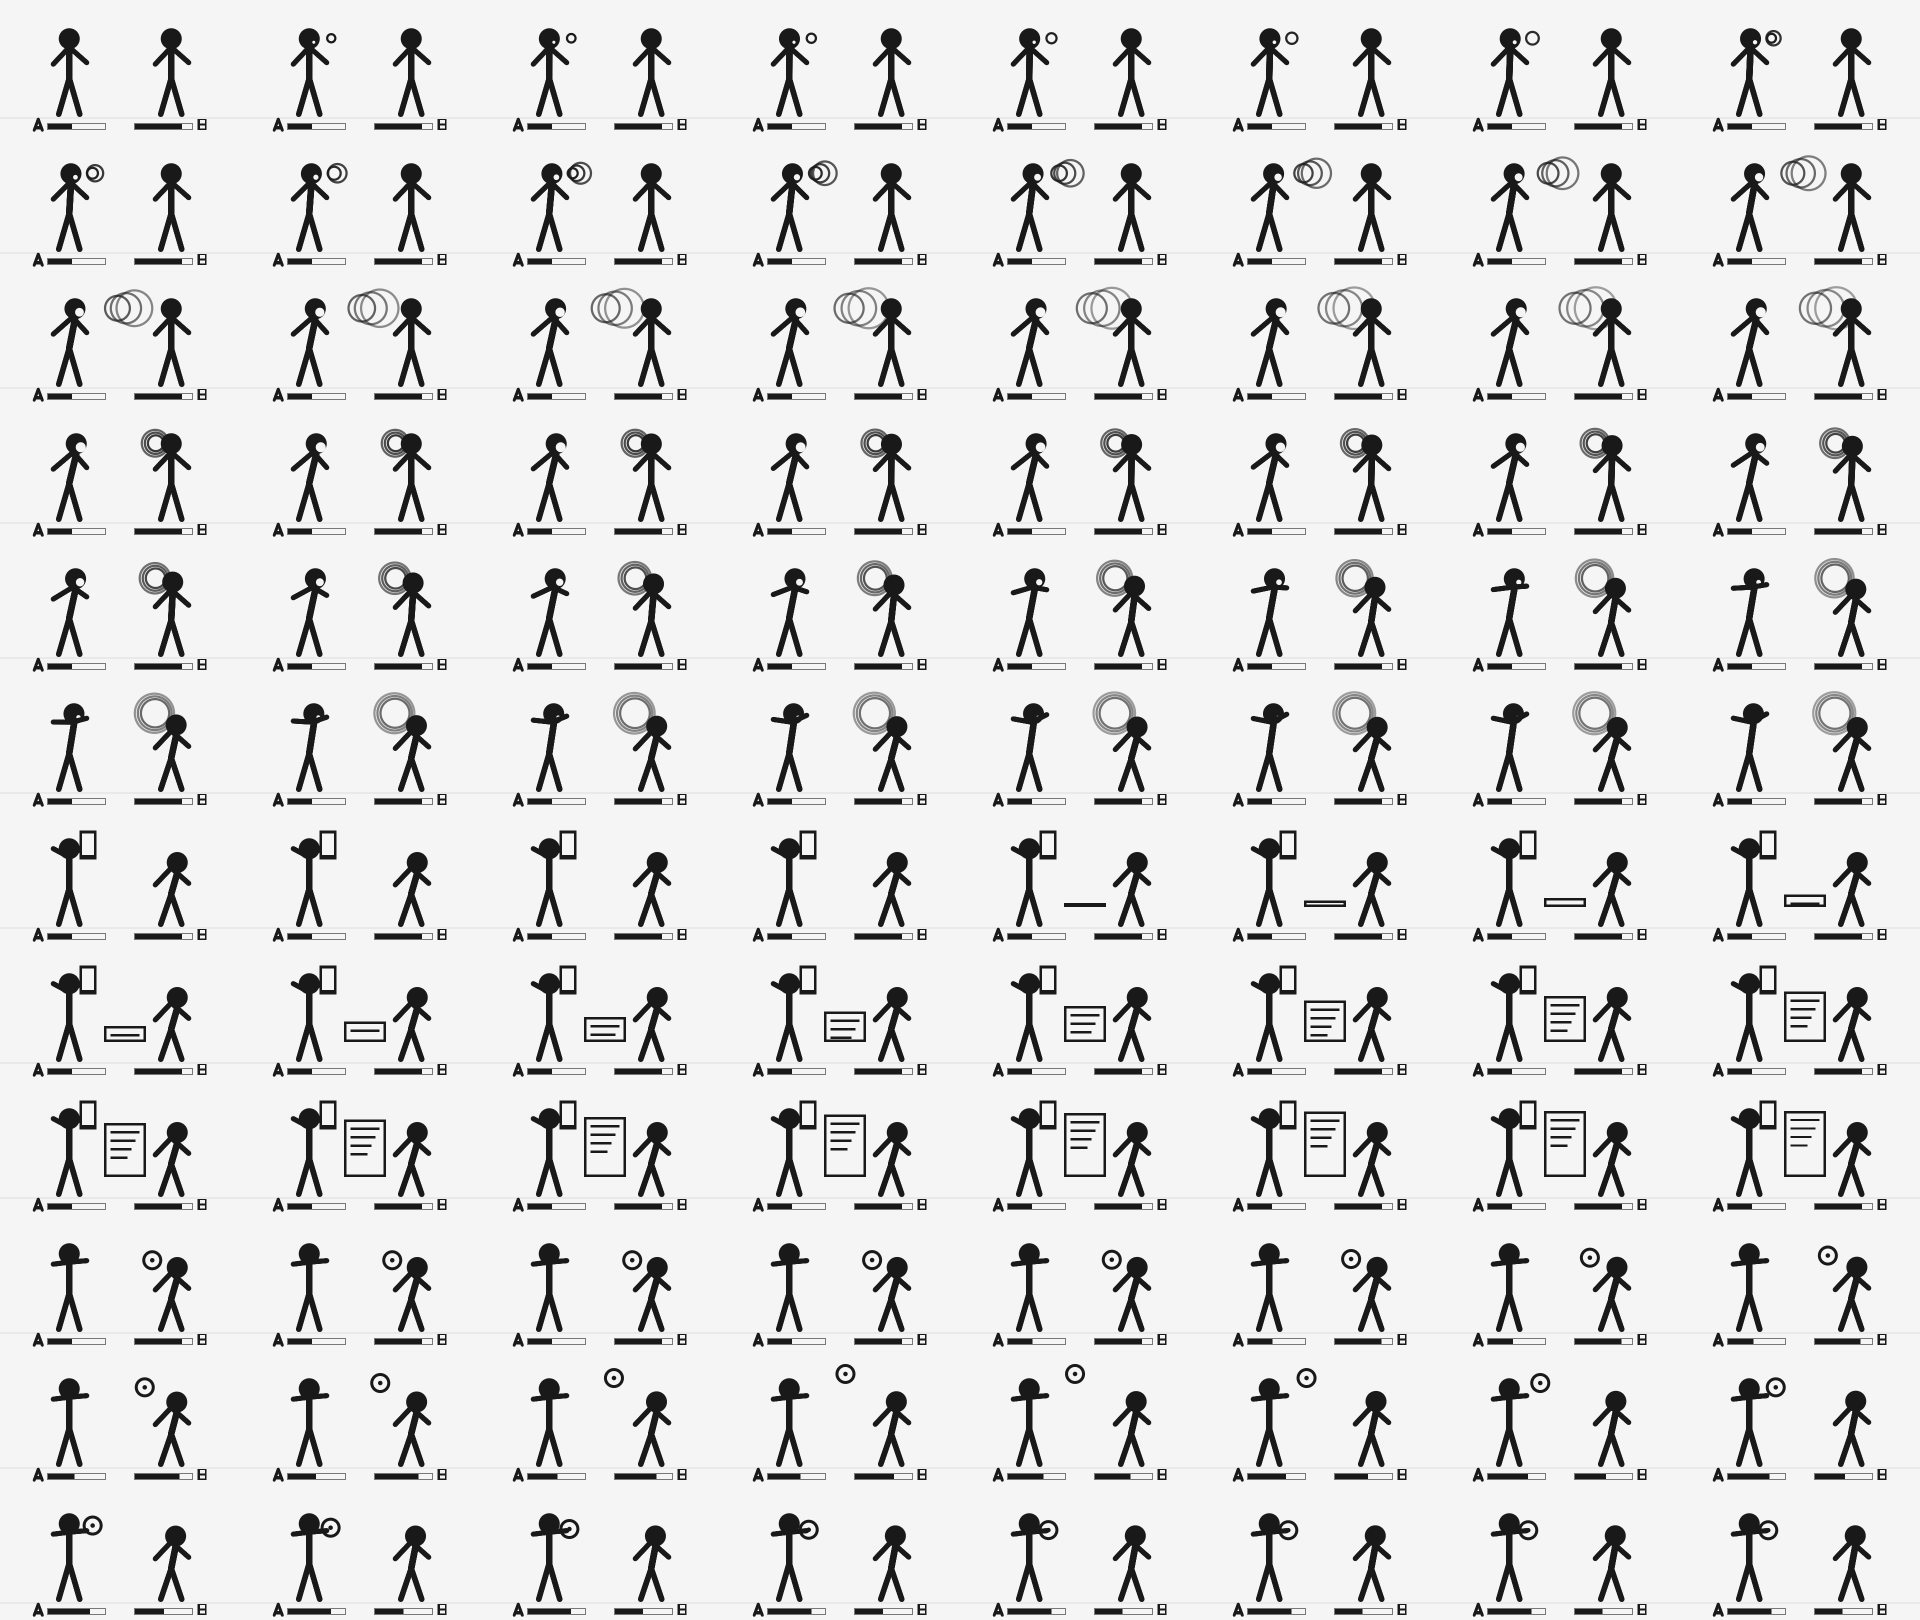
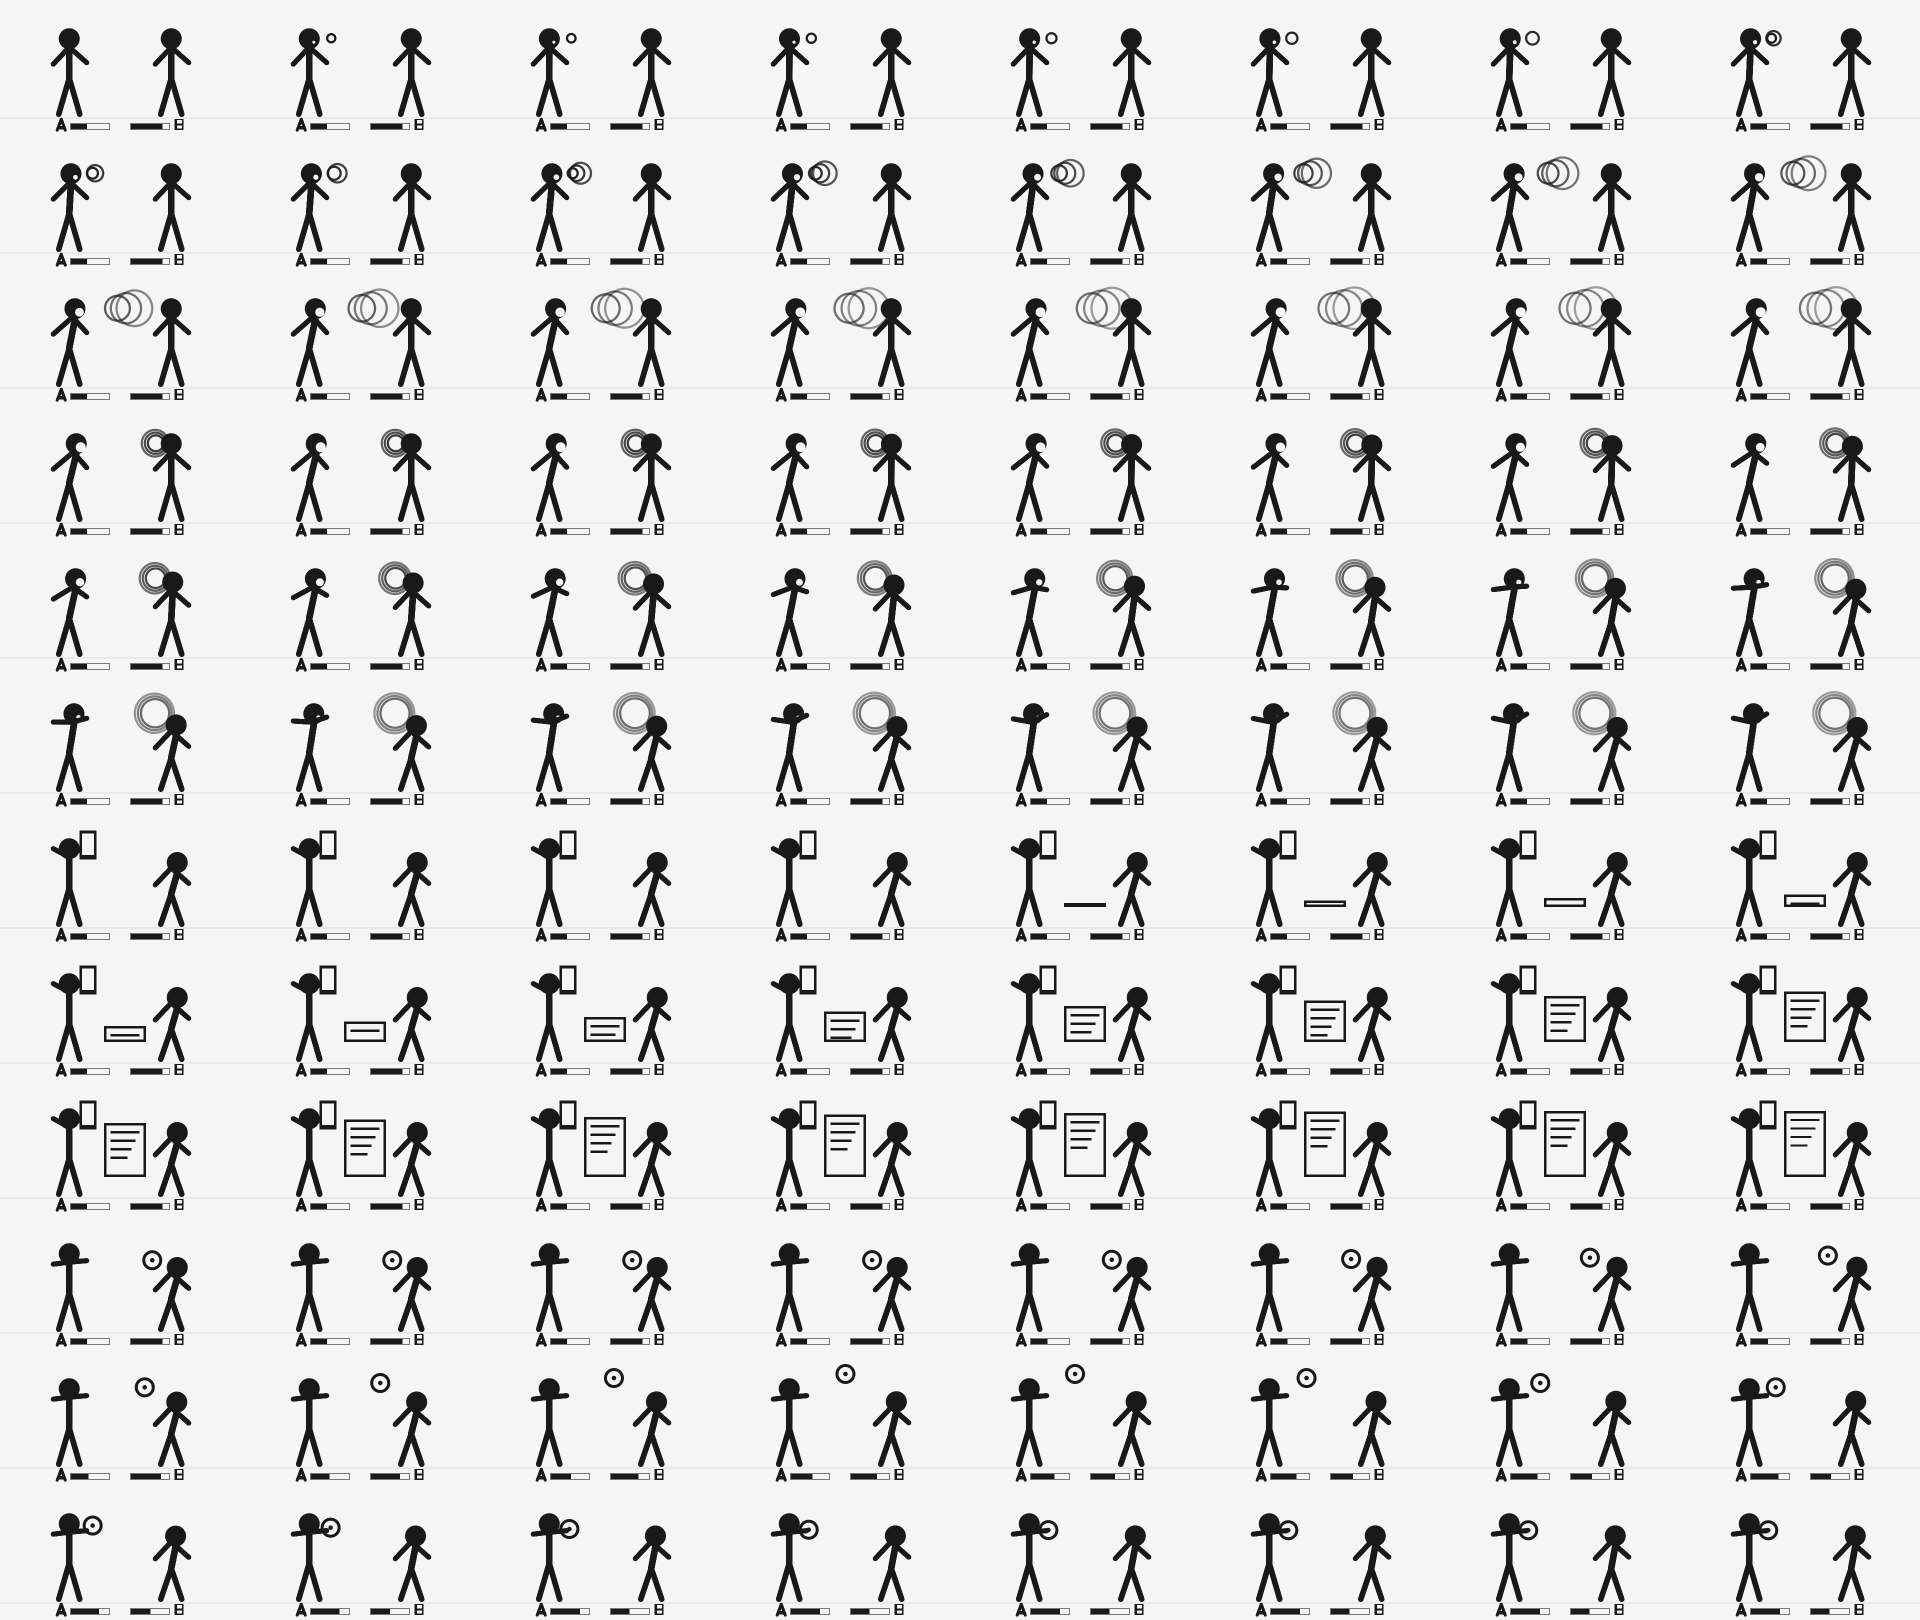
[ADD] bring the artwork up towards the middle of a phone screen
Raises the portrait zoom target so the artwork reaches about 44% of the screen
height instead of 35%, and lifts the captions closer to the header.

Height and width are one decision here: filling more vertical space on a
portrait screen means seeing less of the frame's width. Going from 1.35x to 1.7x
narrows the visible slice to the central ~59%, so the ledger moved further in
and the gauges got shorter to survive it — which incidentally reads better,
since each gauge now sits directly beneath the figure it belongs to.

Raising the target also means portrait tablets get a slight 1.09x enlargement
where they previously got none. That is the intended behaviour, so the test that
asserted "exactly 1" was the stale part, not the code.

135 tests, typecheck clean, verified by rendering both a 390x844 phone and a
widescreen viewport through the shader mirror.

Changed region(s): [[0.0, 0.9877, 1.0, 1.0]]

diff --git a/lib/story/scrub.test.ts b/lib/story/scrub.test.ts
@@ -157,27 +157,30 @@ describe("storyZoom", () => {
     // 390x844 contain-fits to about a quarter of the screen height.
     const containFraction = 390 / FRAME_ASPECT / 844;
     expect(containFraction).toBeLessThan(0.3);
-    expect(storyZoom(390, 844, FRAME_ASPECT)).toBeGreaterThan(1.3);
+    expect(storyZoom(390, 844, FRAME_ASPECT)).toBeGreaterThan(1.6);
   });
 
   it("is capped, so the horizontal crop can never eat the account labels", () => {
-    expect(storyZoom(320, 1200, FRAME_ASPECT)).toBeLessThanOrEqual(1.35);
+    expect(storyZoom(320, 1200, FRAME_ASPECT)).toBeLessThanOrEqual(1.7);
   });
 
-  it("leaves a tablet in portrait alone, where the strip is already tall enough", () => {
-    expect(storyZoom(768, 1024, FRAME_ASPECT)).toBe(1);
+  it("barely touches a portrait tablet, where the strip is nearly tall enough already", () => {
+    const zoom = storyZoom(768, 1024, FRAME_ASPECT);
+    expect(zoom).toBeGreaterThan(1);
+    expect(zoom).toBeLessThan(1.15);
   });
 
-  it("keeps the ledger inside the crop at maximum zoom", () => {
-    // Ledger extent in frame pixels, from scripts/lib/story-frames.mjs:
-    // the "A" glyph starts at ~68 and the "B" glyph ends at ~413 of 480.
-    const maxZoom = 1.35;
+  it("keeps the ledger and both figures inside the crop at maximum zoom", () => {
+    // Frame-pixel extents from scripts/lib/story-frames.mjs: the "A" glyph
+    // starts at ~114 and the "B" glyph ends at ~367; the two figures reach
+    // from ~106 to ~377 once their arms are out, and are the wider pair.
+    const maxZoom = 1.7;
     const visible = 480 / maxZoom;
     const cropLeft = (480 - visible) / 2;
     const cropRight = cropLeft + visible;
 
-    expect(cropLeft).toBeLessThan(68);
-    expect(cropRight).toBeGreaterThan(413);
+    expect(cropLeft).toBeLessThan(106);
+    expect(cropRight).toBeGreaterThan(377);
   });
 
   it("actually makes the artwork bigger on screen, not smaller", () => {
@@ -194,7 +197,7 @@ describe("storyZoom", () => {
 
     expect(contained).toBeLessThan(0.3);
     expect(zoomed).toBeGreaterThan(contained);
-    expect(zoomed).toBeGreaterThan(0.33);
+    expect(zoomed).toBeGreaterThan(0.42);
   });
 
   it("still anchors the enlarged artwork to the bottom of the viewport", () => {

diff --git a/components/sections/StoryScrub.tsx b/components/sections/StoryScrub.tsx
@@ -118,7 +118,7 @@ export function StoryScrub() {
         {scrubbing ? (
           // One step at a time, stacked in place and cross-faded. The wash keeps
           // type crisp where it crosses the engraving.
-          <div className="relative -mx-6 mt-10 min-h-[13em] max-w-[42ch] bg-[radial-gradient(125%_150%_at_0%_100%,var(--color-paper)_32%,transparent_80%)] px-6 sm:min-h-[11em] md:-mx-12 md:mt-auto md:min-h-[10em] md:px-12">
+          <div className="relative -mx-6 mt-6 min-h-[13em] max-w-[42ch] bg-[radial-gradient(125%_150%_at_0%_100%,var(--color-paper)_32%,transparent_80%)] px-6 sm:min-h-[11em] md:-mx-12 md:mt-auto md:min-h-[10em] md:px-12">
             {STEPS.map((entry, index) => (
               <div
                 key={entry.number}
@@ -141,7 +141,7 @@ export function StoryScrub() {
             ))}
           </div>
         ) : (
-          <ol className="mt-10 max-w-[52ch] space-y-8 md:mt-auto">
+          <ol className="mt-6 max-w-[52ch] space-y-8 md:mt-auto">
             {STEPS.map((entry) => (
               <li key={entry.number} data-caption className="flex gap-5">
                 <MonoLabel muted>{entry.number}</MonoLabel>

diff --git a/lib/story/scrub.ts b/lib/story/scrub.ts
@@ -55,10 +55,12 @@ export function storyZoom(
   if (viewportWidth <= 0 || viewportHeight <= 0 || frameAspect <= 0) return 1;
   if (viewportWidth / viewportHeight >= frameAspect) return 1;
 
-  // Fraction of the viewport height a contain fit would occupy.
+  // Fraction of the viewport height a contain fit would occupy, and the share
+  // we want it to reach — a little under half the screen, so the artwork comes
+  // up towards the middle instead of sitting in a band at the bottom.
   const heightFraction = viewportWidth / frameAspect / viewportHeight;
   if (heightFraction <= 0) return 1;
-  return Math.min(1.35, Math.max(1, 0.42 / heightFraction));
+  return Math.min(1.7, Math.max(1, 0.46 / heightFraction));
 }
 
 /**

diff --git a/components/sections/StoryScrub.test.tsx b/components/sections/StoryScrub.test.tsx
@@ -80,8 +80,8 @@ describe("StoryScrub", () => {
     positionSection({ top: 0, height: 4000 });
     const { container } = render(<StoryScrub />);
     const captions = container.querySelector('[data-caption]')?.parentElement;
-    // mt-10 sits them under the header; md:mt-auto drops them to the bottom.
-    expect(captions?.className).toContain("mt-10");
+    // mt-6 sits them under the header; md:mt-auto drops them to the bottom.
+    expect(captions?.className).toContain("mt-6");
     expect(captions?.className).toContain("md:mt-auto");
   });
 

diff --git a/docs/superpowers/specs/2026-08-23-aurabank-landing-design.md b/docs/superpowers/specs/2026-08-23-aurabank-landing-design.md
@@ -72,7 +72,9 @@ Everything runs in house. At runtime the page makes **zero external network requ
 - **Split-character headlines.** Headline text is exploded into line → word → char. Each char carries its own CSS custom properties and rises out of a clip mask on a stagger, triggered by IntersectionObserver.
 - **The story, engraved.** While the story section is on screen, the current frame of the toon is sampled from a sprite atlas and fed into the same field. Dark artwork lays down a fourth, much finer plate inside the silhouette — that density is what makes the figure read as an engraved portrait rather than a pasted-on cartoon. The plate cross-fades in and out at the section's edges so it never appears behind the hero or the disclosure copy. It is deliberately restrained: the captions carry the meaning, so the artwork must never compete with the type in front of it.
 - **The plate fades up on first paint** rather than snapping in, so the engraving resolves into the page instead of appearing behind it.
-- **Portrait viewports enlarge the artwork and crop it.** Contain-fitting a 16:9 frame into a 390×844 phone leaves the artwork about a quarter of the screen height — a thin strip. The frame's upper area is mostly empty, so portrait scales it up (capped at 1.35×) and lets the top crop, taking it to roughly a third of the screen with figures large enough to read. The cap is what keeps the labelled gauges inside the horizontal crop, which is why the ledger is drawn well inside the frame's width.
+- **Portrait viewports enlarge the artwork and crop it.** Contain-fitting a 16:9 frame into a 390×844 phone leaves the artwork about a quarter of the screen height — a thin strip. The frame's upper area is mostly empty, so portrait scales it up (capped at 1.7×) and lets the top crop, bringing it up to roughly 44% of the screen — near the middle — with figures large enough to read.
+
+  The two are linked: filling more height on a portrait screen means seeing less of the frame's width, so the cap and the artwork's own layout are one decision. At full zoom only the central ~59% of the frame is visible, which is why the ledger sits well inside it. The gauges are narrower and closer in than they would otherwise be, and each ends up beneath the figure it belongs to.
 - **Phones fetch a half-resolution atlas** (1920×1620, 133 KB) instead of the full sheet, which a browser would decode to tens of megabytes of texture. The shader addresses cells in normalised coordinates, so it neither knows nor cares which it gets. Small screens also cap the device pixel ratio at 1.5 and skip pointer tracking, which a touch device only reports mid-drag anyway.
 - **The artwork is anchored to the bottom of the viewport**, not centred in it. The balance bars run along the frame's bottom edge, and bottom-anchoring keeps them pinned to the bottom of the screen at every aspect ratio — centring would float them up into the captions on any viewport narrower than the frame.
 - **Scroll drives the story, not time.** The frame index is a pure function of scroll position, so scrolling up runs the story backwards at no extra cost. The displayed frame eases toward the target to give the scrub weight.

diff --git a/README.md b/README.md
@@ -145,9 +145,10 @@ The story is responsive in three ways that matter:
 
 - **The artwork is enlarged and cropped** rather than contain-fitted. A 16:9
   frame contain-fitted into a portrait phone is a strip about a quarter of the
-  screen tall; portrait scales it up (capped at 1.35×) and crops the mostly
-  empty top. The cap is why the ledger is drawn well inside the frame's width —
-  push it outward and the horizontal crop eats the account labels.
+  screen tall; portrait scales it up (capped at 1.7×) and crops the mostly empty
+  top, reaching ~44% of the screen. Filling more height means seeing less width,
+  so the cap and the artwork's layout are one decision — at full zoom only the
+  central ~59% of the frame shows, which is why the ledger sits well inside it.
 - **Phones fetch `story-atlas-half.png`** (1920×1620, 133 KB) instead of the
   full sheet, which decodes to tens of megabytes of texture. Small screens also
   cap the device pixel ratio at 1.5 and skip pointer tracking.
